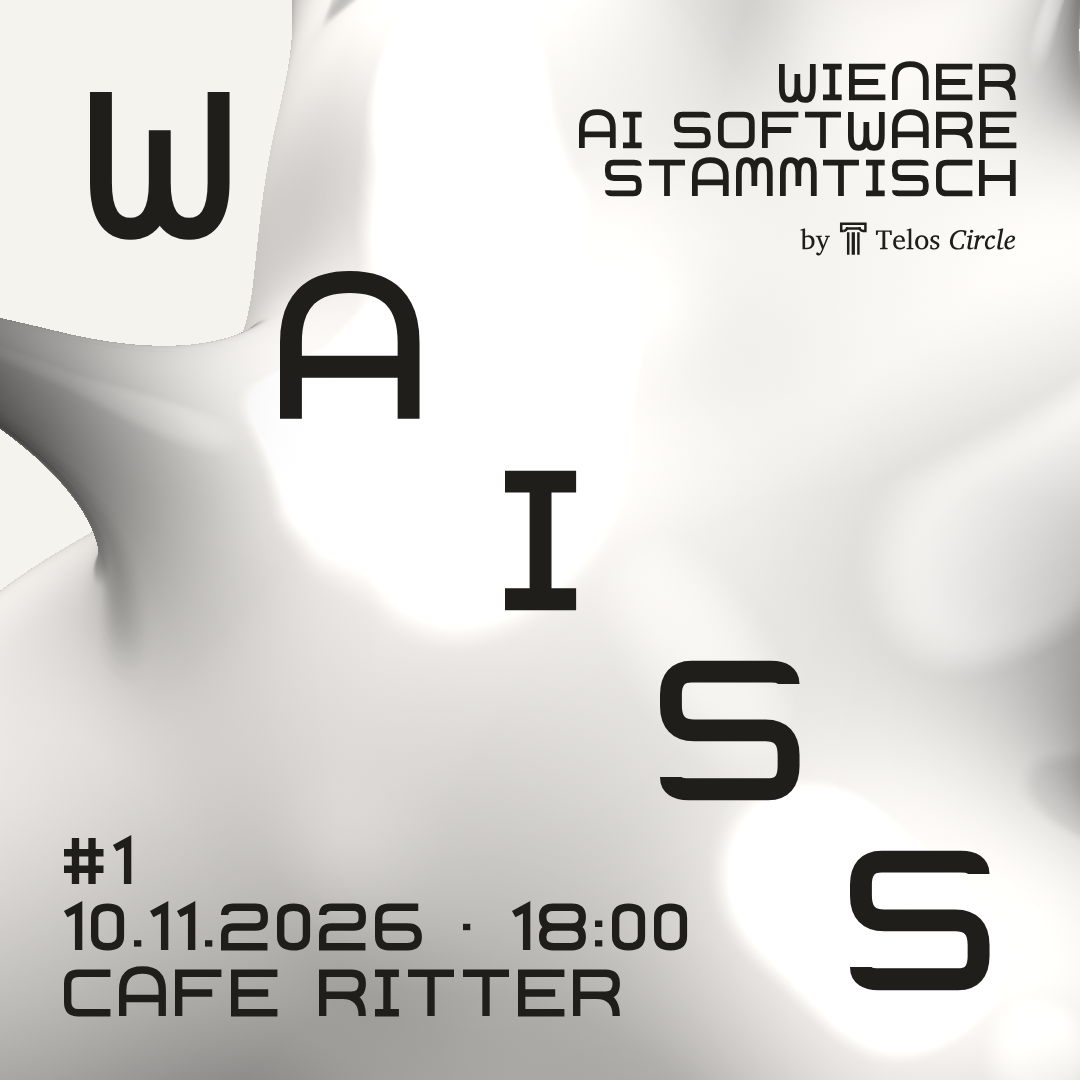
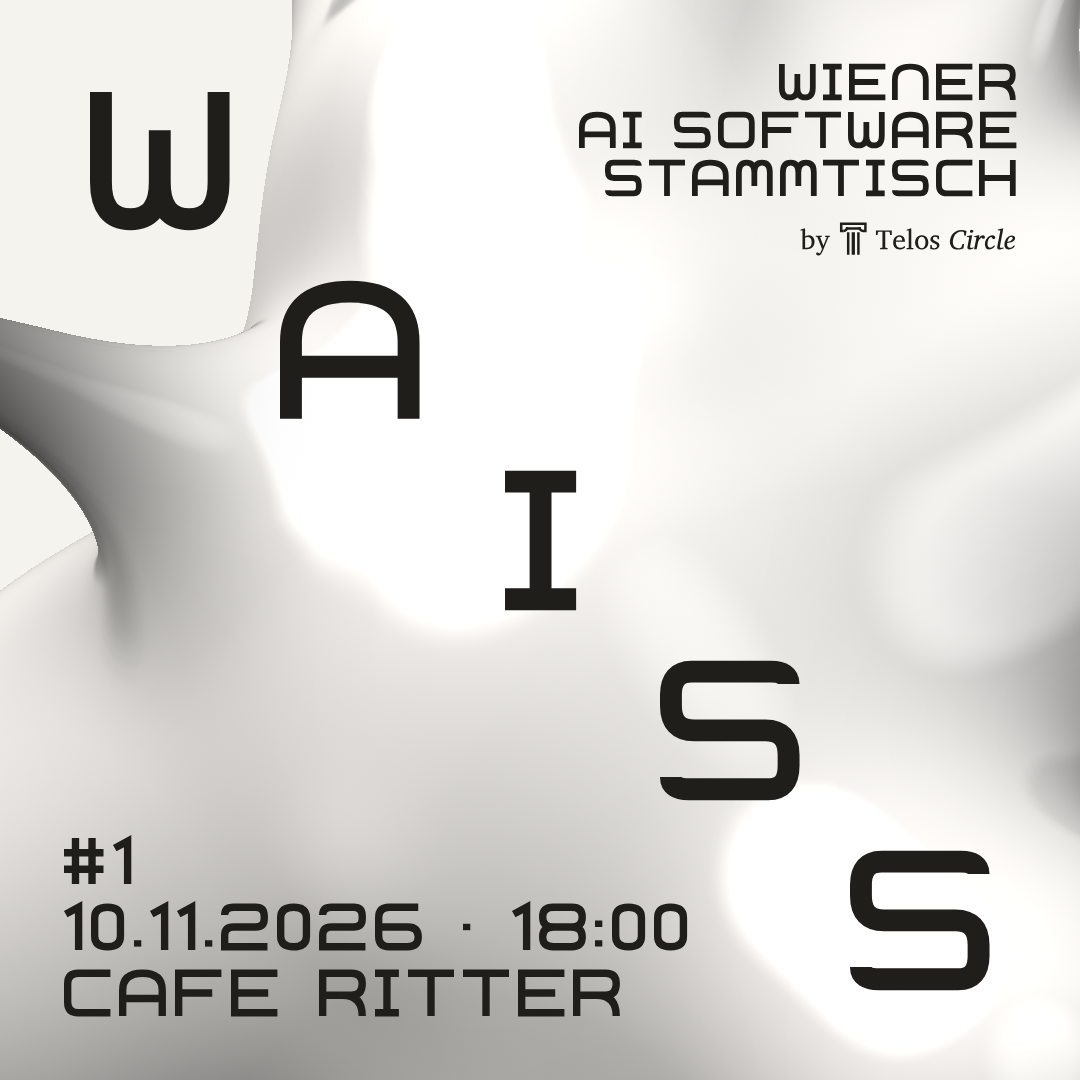
Secession alphabet: A, M, N no longer overshoot at the top, W, U at the bottom
Their arches sat on the 0/100 line, so the 16-unit stroke stuck out 8 units past every other letter.
They now sit on 7/93 like the bars of S, I, T. Re-rendered flyers, Luma cover and title slide.

diff --git a/design/canvas/Txt.dc.html b/design/canvas/Txt.dc.html
@@ -21,7 +21,7 @@ body{margin:0}
 <script type="text/x-dc" data-dc-script data-props='{"text": {"editor": "text", "default": "EDITION 1"}, "size": {"editor": "int", "default": 48, "min": 8, "max": 600}, "color": {"editor": "color", "default": "#1F1E1B"}, "$preview": {"width": 560, "height": 60}}'>
 class Component extends DCLogic {
   renderVals() {
-    const G = {"A": [-1, 101.75, "M7,100 L7,44 Q7,0 50,0 Q93,0 93,44 L93,100 M7,62 L93,62"], "B": [-1, 101.75, "M7,0 L7,100 M7,7 L70,7 Q93,7 93,28 Q93,50 70,50 L7,50 M7,50 L72,50 Q93,50 93,71 Q93,93 72,93 L7,93"], "C": [-1, 100.75, "M100,7 L30,7 Q7,7 7,30 L7,70 Q7,93 30,93 L100,93"], "D": [-1, 101.75, "M7,0 L7,100 M7,7 L50,7 Q93,7 93,50 Q93,93 50,93 L7,93"], "E": [-1, 100.75, "M100,7 L7,7 L7,93 L100,93 M7,50 L80,50"], "F": [-1, 100.75, "M100,7 L7,7 L7,100 M7,50 L80,50"], "G": [-1, 101.75, "M100,7 L30,7 Q7,7 7,30 L7,70 Q7,93 30,93 L93,93 L93,50 L55,50"], "H": [-1, 101.75, "M7,0 L7,100 M93,0 L93,100 M7,50 L93,50"], "I": [24, 51.75, "M50,0 L50,100 M24,7 L76,7 M24,93 L76,93"], "J": [-1, 101.75, "M93,0 L93,66 Q93,93 66,93 L34,93 Q7,93 7,66"], "K": [-1, 101.75, "M7,0 L7,100 M7,50 L50,50 Q93,50 93,100 M50,50 Q93,50 93,0"], "L": [-1, 100.75, "M7,0 L7,93 L100,93"], "M": [-1, 101.75, "M7,100 L7,34 Q7,0 28.5,0 Q50,0 50,34 L50,72 M50,34 Q50,0 71.5,0 Q93,0 93,34 L93,100"], "N": [-1, 101.75, "M7,100 L7,44 Q7,0 50,0 Q93,0 93,44 L93,100"], "O": [-1, 101.75, "M30,7 L70,7 Q93,7 93,30 L93,70 Q93,93 70,93 L30,93 Q7,93 7,70 L7,30 Q7,7 30,7 Z"], "P": [-1, 101.75, "M7,100 L7,7 L70,7 Q93,7 93,30 Q93,55 70,55 L7,55"], "Q": [-1, 106, "M30,7 L70,7 Q93,7 93,30 L93,70 Q93,93 70,93 L30,93 Q7,93 7,70 L7,30 Q7,7 30,7 Z M62,68 L100,100"], "R": [-1, 101.75, "M7,100 L7,7 L70,7 Q93,7 93,30 Q93,55 70,55 L7,55 M50,55 Q93,55 93,100"], "S": [-1, 101.75, "M93,16 Q93,7 80,7 L22,7 Q7,7 7,24 L7,32 Q7,50 24,50 L76,50 Q93,50 93,68 L93,76 Q93,93 78,93 L20,93 Q7,93 7,84"], "T": [0, 99.75, "M0,7 L100,7 M50,7 L50,100"], "U": [-1, 101.75, "M7,0 L7,56 Q7,100 50,100 Q93,100 93,56 L93,0"], "V": [-0.25, 100.25, "M7,0 L50,92 L93,0"], "W": [-1, 101.75, "M7,0 L7,66 Q7,100 28.5,100 Q50,100 50,66 L50,28 M50,66 Q50,100 71.5,100 Q93,100 93,66 L93,0"], "X": [1, 97.75, "M7,0 L93,100 M93,0 L7,100"], "Y": [1, 97.75, "M7,0 L50,50 L93,0 M50,50 L50,100"], "Z": [-12.25, 124.25, "M0,7 L93,7 L7,93 L100,93"], "0": [14, 71.75, "M50,7 Q78,7 78,30 L78,70 Q78,93 50,93 Q22,93 22,70 L22,30 Q22,7 50,7 Z"], "1": [18.25, 39.5, "M22,22 L50,7 L50,100"], "2": [-1, 101.75, "M7,24 Q7,7 26,7 L74,7 Q93,7 93,26 L93,32 Q93,50 74,50 L26,50 Q7,50 7,68 L7,93 L100,93"], "3": [0, 100.75, "M0,7 L74,7 Q93,7 93,26 Q93,50 70,50 L30,50 M70,50 Q93,50 93,72 Q93,93 74,93 L0,93"], "4": [-1, 100.75, "M7,0 L7,64 L100,64 M70,30 L70,100"], "5": [-1, 101.75, "M93,7 L7,7 L7,50 L74,50 Q93,50 93,70 L93,74 Q93,93 74,93 L0,93"], "6": [-1, 101.75, "M93,7 L30,7 Q7,7 7,30 L7,70 Q7,93 30,93 L70,93 Q93,93 93,72 Q93,50 70,50 L7,50"], "7": [0, 106.5, "M0,7 L93,7 L40,100"], "8": [-1, 101.75, "M30,7 L70,7 Q93,7 93,28 Q93,50 70,50 L30,50 Q7,50 7,28 Q7,7 30,7 Z M30,50 L70,50 Q93,50 93,72 Q93,93 70,93 L30,93 Q7,93 7,72 Q7,50 30,50 Z"], "9": [-1, 101.75, "M93,50 L30,50 Q7,50 7,28 Q7,7 30,7 L70,7 Q93,7 93,30 L93,70 Q93,93 70,93 L7,93"], "+": [7, 85.75, "M7,50 L93,50 M50,7 L50,93"], "#": [7, 85.75, "M32,0 L32,100 M68,0 L68,100 M7,32 L93,32 M7,68 L93,68"], ".": [7, 15.75, "M15,79 L15,93"], ":": [7, 15.75, "M15,36 L15,50 M15,79 L15,93"], ",": [2.25, 20.5, "M15,79 L15,93 L8,100"], "-": [7, 45.75, "M7,50 L53,50"], "/": [-7, 73.75, "M0,100 L60,0"], "'": [7, 15.75, "M15,0 L15,22"], "·": [7, 15.75, "M15,43 L15,57"], " ": [0, 50, ""]};
+    const G = {"A": [-1, 101.75, "M7,100 L7,44 Q7,7 50,7 Q93,7 93,44 L93,100 M7,62 L93,62"], "B": [-1, 101.75, "M7,0 L7,100 M7,7 L70,7 Q93,7 93,28 Q93,50 70,50 L7,50 M7,50 L72,50 Q93,50 93,71 Q93,93 72,93 L7,93"], "C": [-1, 100.75, "M100,7 L30,7 Q7,7 7,30 L7,70 Q7,93 30,93 L100,93"], "D": [-1, 101.75, "M7,0 L7,100 M7,7 L50,7 Q93,7 93,50 Q93,93 50,93 L7,93"], "E": [-1, 100.75, "M100,7 L7,7 L7,93 L100,93 M7,50 L80,50"], "F": [-1, 100.75, "M100,7 L7,7 L7,100 M7,50 L80,50"], "G": [-1, 101.75, "M100,7 L30,7 Q7,7 7,30 L7,70 Q7,93 30,93 L93,93 L93,50 L55,50"], "H": [-1, 101.75, "M7,0 L7,100 M93,0 L93,100 M7,50 L93,50"], "I": [24, 51.75, "M50,0 L50,100 M24,7 L76,7 M24,93 L76,93"], "J": [-1, 101.75, "M93,0 L93,66 Q93,93 66,93 L34,93 Q7,93 7,66"], "K": [-1, 101.75, "M7,0 L7,100 M7,50 L50,50 Q93,50 93,100 M50,50 Q93,50 93,0"], "L": [-1, 100.75, "M7,0 L7,93 L100,93"], "M": [-1, 101.75, "M7,100 L7,34 Q7,7 28.5,7 Q50,7 50,34 L50,72 M50,34 Q50,7 71.5,7 Q93,7 93,34 L93,100"], "N": [-1, 101.75, "M7,100 L7,44 Q7,7 50,7 Q93,7 93,44 L93,100"], "O": [-1, 101.75, "M30,7 L70,7 Q93,7 93,30 L93,70 Q93,93 70,93 L30,93 Q7,93 7,70 L7,30 Q7,7 30,7 Z"], "P": [-1, 101.75, "M7,100 L7,7 L70,7 Q93,7 93,30 Q93,55 70,55 L7,55"], "Q": [-1, 106, "M30,7 L70,7 Q93,7 93,30 L93,70 Q93,93 70,93 L30,93 Q7,93 7,70 L7,30 Q7,7 30,7 Z M62,68 L100,100"], "R": [-1, 101.75, "M7,100 L7,7 L70,7 Q93,7 93,30 Q93,55 70,55 L7,55 M50,55 Q93,55 93,100"], "S": [-1, 101.75, "M93,16 Q93,7 80,7 L22,7 Q7,7 7,24 L7,32 Q7,50 24,50 L76,50 Q93,50 93,68 L93,76 Q93,93 78,93 L20,93 Q7,93 7,84"], "T": [0, 99.75, "M0,7 L100,7 M50,7 L50,100"], "U": [-1, 101.75, "M7,0 L7,56 Q7,93 50,93 Q93,93 93,56 L93,0"], "V": [-0.25, 100.25, "M7,0 L50,92 L93,0"], "W": [-1, 101.75, "M7,0 L7,66 Q7,93 28.5,93 Q50,93 50,66 L50,28 M50,66 Q50,93 71.5,93 Q93,93 93,66 L93,0"], "X": [1, 97.75, "M7,0 L93,100 M93,0 L7,100"], "Y": [1, 97.75, "M7,0 L50,50 L93,0 M50,50 L50,100"], "Z": [-12.25, 124.25, "M0,7 L93,7 L7,93 L100,93"], "0": [14, 71.75, "M50,7 Q78,7 78,30 L78,70 Q78,93 50,93 Q22,93 22,70 L22,30 Q22,7 50,7 Z"], "1": [18.25, 39.5, "M22,22 L50,7 L50,100"], "2": [-1, 101.75, "M7,24 Q7,7 26,7 L74,7 Q93,7 93,26 L93,32 Q93,50 74,50 L26,50 Q7,50 7,68 L7,93 L100,93"], "3": [0, 100.75, "M0,7 L74,7 Q93,7 93,26 Q93,50 70,50 L30,50 M70,50 Q93,50 93,72 Q93,93 74,93 L0,93"], "4": [-1, 100.75, "M7,0 L7,64 L100,64 M70,30 L70,100"], "5": [-1, 101.75, "M93,7 L7,7 L7,50 L74,50 Q93,50 93,70 L93,74 Q93,93 74,93 L0,93"], "6": [-1, 101.75, "M93,7 L30,7 Q7,7 7,30 L7,70 Q7,93 30,93 L70,93 Q93,93 93,72 Q93,50 70,50 L7,50"], "7": [0, 106.5, "M0,7 L93,7 L40,100"], "8": [-1, 101.75, "M30,7 L70,7 Q93,7 93,28 Q93,50 70,50 L30,50 Q7,50 7,28 Q7,7 30,7 Z M30,50 L70,50 Q93,50 93,72 Q93,93 70,93 L30,93 Q7,93 7,72 Q7,50 30,50 Z"], "9": [-1, 101.75, "M93,50 L30,50 Q7,50 7,28 Q7,7 30,7 L70,7 Q93,7 93,30 L93,70 Q93,93 70,93 L7,93"], "+": [7, 85.75, "M7,50 L93,50 M50,7 L50,93"], "#": [7, 85.75, "M32,0 L32,100 M68,0 L68,100 M7,32 L93,32 M7,68 L93,68"], ".": [7, 15.75, "M15,79 L15,93"], ":": [7, 15.75, "M15,36 L15,50 M15,79 L15,93"], ",": [2.25, 20.5, "M15,79 L15,93 L8,100"], "-": [7, 45.75, "M7,50 L53,50"], "/": [-7, 73.75, "M0,100 L60,0"], "'": [7, 15.75, "M15,0 L15,22"], "·": [7, 15.75, "M15,43 L15,57"], " ": [0, 50, ""]};
     const h = Math.max(4, Number(this.props.size ?? 48));
     const raw = String(this.props.text ?? 'EDITION 1').toUpperCase().replace(/Ä/g, 'AE').replace(/Ö/g, 'OE').replace(/Ü/g, 'UE').replace(/ß/g, 'SS').normalize('NFD').replace(/[\u0300-\u036f]/g, '');
     const glyphs = [];

diff --git a/design/canvas/Main.dc.html b/design/canvas/Main.dc.html
@@ -23,7 +23,7 @@ body{margin:0}
 <dc-import name="Txt" text="WIENER AI SOFTWARE STAMMTISCH" size="48" hint-size="576px,48px"></dc-import>
 </div>
 <div style="position: absolute; left: 100px; top: 300px; display: flex; flex-direction: column; font-size: 400px; line-height: {{lh}}; font-family: {{ff}}; font-style: {{fs}}; font-weight: {{fw}}; font-variation-settings: {{fv}}; background-image: {{hb}}; -webkit-background-clip: {{hclip}}; background-clip: {{hclip}}; color: {{hcol}}; -webkit-text-stroke: {{hst}}; transform: {{sk}}; letter-spacing: {{ls}}" role="img" aria-label="WAISS">
-<span><span style="display: inline-block; transform: {{l1t}}; font-variation-settings: {{l1v}}; margin-right: 0.144em"><svg viewBox="-1 0 101.75 100" aria-hidden="true" style="display: block; width: 0.7326em; height: 0.72em; overflow: visible"><path d="M7,0 L7,66 Q7,100 28.5,100 Q50,100 50,66 L50,28 M50,66 Q50,100 71.5,100 Q93,100 93,66 L93,0" fill="none" stroke="#1F1E1B" stroke-width="16" stroke-linecap="butt" stroke-linejoin="miter"/></svg></span><span style="display: inline-block; transform: {{l2t}}; font-variation-settings: {{l2v}}; margin-right: 0.144em"><svg viewBox="-1 0 101.75 100" aria-hidden="true" style="display: block; width: 0.7326em; height: 0.72em; overflow: visible"><path d="M7,100 L7,44 Q7,0 50,0 Q93,0 93,44 L93,100 M7,62 L93,62" fill="none" stroke="#1F1E1B" stroke-width="16" stroke-linecap="butt" stroke-linejoin="miter"/></svg></span><span style="display: inline-block; transform: {{l3t}}; font-variation-settings: {{l3v}}; margin-right: 0.144em"><svg viewBox="24 0 51.75 100" aria-hidden="true" style="display: block; width: 0.3726em; height: 0.72em; overflow: visible"><path d="M50,0 L50,100 M24,7 L76,7 M24,93 L76,93" fill="none" stroke="#1F1E1B" stroke-width="16" stroke-linecap="butt" stroke-linejoin="miter"/></svg></span><span style="display: inline-block; transform: {{l4t}}; font-variation-settings: {{l4v}}; margin-right: 0.144em"><svg viewBox="-1 0 101.75 100" aria-hidden="true" style="display: block; width: 0.7326em; height: 0.72em; overflow: visible"><path d="M93,16 Q93,7 80,7 L22,7 Q7,7 7,24 L7,32 Q7,50 24,50 L76,50 Q93,50 93,68 L93,76 Q93,93 78,93 L20,93 Q7,93 7,84" fill="none" stroke="#1F1E1B" stroke-width="16" stroke-linecap="butt" stroke-linejoin="miter"/></svg></span><span style="display: inline-block; transform: {{l5t}}; font-variation-settings: {{l5v}}; margin-right: 0.144em"><svg viewBox="-1 0 101.75 100" aria-hidden="true" style="display: block; width: 0.7326em; height: 0.72em; overflow: visible"><path d="M93,16 Q93,7 80,7 L22,7 Q7,7 7,24 L7,32 Q7,50 24,50 L76,50 Q93,50 93,68 L93,76 Q93,93 78,93 L20,93 Q7,93 7,84" fill="none" stroke="#1F1E1B" stroke-width="16" stroke-linecap="butt" stroke-linejoin="miter"/></svg></span></span>
+<span><span style="display: inline-block; transform: {{l1t}}; font-variation-settings: {{l1v}}; margin-right: 0.144em"><svg viewBox="-1 0 101.75 100" aria-hidden="true" style="display: block; width: 0.7326em; height: 0.72em; overflow: visible"><path d="M7,0 L7,66 Q7,93 28.5,93 Q50,93 50,66 L50,28 M50,66 Q50,93 71.5,93 Q93,93 93,66 L93,0" fill="none" stroke="#1F1E1B" stroke-width="16" stroke-linecap="butt" stroke-linejoin="miter"/></svg></span><span style="display: inline-block; transform: {{l2t}}; font-variation-settings: {{l2v}}; margin-right: 0.144em"><svg viewBox="-1 0 101.75 100" aria-hidden="true" style="display: block; width: 0.7326em; height: 0.72em; overflow: visible"><path d="M7,100 L7,44 Q7,7 50,7 Q93,7 93,44 L93,100 M7,62 L93,62" fill="none" stroke="#1F1E1B" stroke-width="16" stroke-linecap="butt" stroke-linejoin="miter"/></svg></span><span style="display: inline-block; transform: {{l3t}}; font-variation-settings: {{l3v}}; margin-right: 0.144em"><svg viewBox="24 0 51.75 100" aria-hidden="true" style="display: block; width: 0.3726em; height: 0.72em; overflow: visible"><path d="M50,0 L50,100 M24,7 L76,7 M24,93 L76,93" fill="none" stroke="#1F1E1B" stroke-width="16" stroke-linecap="butt" stroke-linejoin="miter"/></svg></span><span style="display: inline-block; transform: {{l4t}}; font-variation-settings: {{l4v}}; margin-right: 0.144em"><svg viewBox="-1 0 101.75 100" aria-hidden="true" style="display: block; width: 0.7326em; height: 0.72em; overflow: visible"><path d="M93,16 Q93,7 80,7 L22,7 Q7,7 7,24 L7,32 Q7,50 24,50 L76,50 Q93,50 93,68 L93,76 Q93,93 78,93 L20,93 Q7,93 7,84" fill="none" stroke="#1F1E1B" stroke-width="16" stroke-linecap="butt" stroke-linejoin="miter"/></svg></span><span style="display: inline-block; transform: {{l5t}}; font-variation-settings: {{l5v}}; margin-right: 0.144em"><svg viewBox="-1 0 101.75 100" aria-hidden="true" style="display: block; width: 0.7326em; height: 0.72em; overflow: visible"><path d="M93,16 Q93,7 80,7 L22,7 Q7,7 7,24 L7,32 Q7,50 24,50 L76,50 Q93,50 93,68 L93,76 Q93,93 78,93 L20,93 Q7,93 7,84" fill="none" stroke="#1F1E1B" stroke-width="16" stroke-linecap="butt" stroke-linejoin="miter"/></svg></span></span>
 </div>
 <div style="position: absolute; left: 120px; right: 120px; bottom: 100px; display: flex; align-items: flex-end; gap: 72px">
 <dc-import name="Txt" text="{{edition}}" size="48" hint-size="576px,48px"></dc-import>

diff --git a/design/canvas/Luma.dc.html b/design/canvas/Luma.dc.html
@@ -20,8 +20,8 @@ body{margin:0}
 <dc-import name="Blob" w="1080" h="1080" variant="{{bVar}}" zoom="{{bZoom}}" shift-x="{{bX}}" shift-y="{{bY}}" rot-offset="{{bRot}}" bg="transparent" hint-size="1080px,1080px"></dc-import>
 </div>
 <div style="position: absolute; left: 90.4px; top: 65px; display: flex; flex-direction: column; font-size: 190px; line-height: {{lh}}; font-family: {{ff}}; font-style: {{fs}}; font-weight: {{fw}}; font-variation-settings: {{fv}}; background-image: {{hb}}; -webkit-background-clip: {{hclip}}; background-clip: {{hclip}}; color: {{hcol}}; -webkit-text-stroke: {{hst}}; transform: {{sk}}; letter-spacing: {{ls}}" role="img" aria-label="WAISS">
-<span style="white-space: nowrap; display: flex; align-items: center; height: 1em; margin-left: 0em"><span style="display: inline-block; transform: {{l1t}}; font-variation-settings: {{l1v}}"><svg viewBox="-1 0 101.75 100" aria-hidden="true" style="display: block; width: 0.7326em; height: 0.72em; overflow: visible"><path d="M7,0 L7,66 Q7,100 28.5,100 Q50,100 50,66 L50,28 M50,66 Q50,100 71.5,100 Q93,100 93,66 L93,0" fill="none" stroke="#1F1E1B" stroke-width="16" stroke-linecap="butt" stroke-linejoin="miter"/></svg></span></span>
-<span style="white-space: nowrap; display: flex; align-items: center; height: 1em; margin-left: 1em"><span style="display: inline-block; transform: {{l2t}}; font-variation-settings: {{l2v}}"><svg viewBox="-1 0 101.75 100" aria-hidden="true" style="display: block; width: 0.7326em; height: 0.72em; overflow: visible"><path d="M7,100 L7,44 Q7,0 50,0 Q93,0 93,44 L93,100 M7,62 L93,62" fill="none" stroke="#1F1E1B" stroke-width="16" stroke-linecap="butt" stroke-linejoin="miter"/></svg></span></span>
+<span style="white-space: nowrap; display: flex; align-items: center; height: 1em; margin-left: 0em"><span style="display: inline-block; transform: {{l1t}}; font-variation-settings: {{l1v}}"><svg viewBox="-1 0 101.75 100" aria-hidden="true" style="display: block; width: 0.7326em; height: 0.72em; overflow: visible"><path d="M7,0 L7,66 Q7,93 28.5,93 Q50,93 50,66 L50,28 M50,66 Q50,93 71.5,93 Q93,93 93,66 L93,0" fill="none" stroke="#1F1E1B" stroke-width="16" stroke-linecap="butt" stroke-linejoin="miter"/></svg></span></span>
+<span style="white-space: nowrap; display: flex; align-items: center; height: 1em; margin-left: 1em"><span style="display: inline-block; transform: {{l2t}}; font-variation-settings: {{l2v}}"><svg viewBox="-1 0 101.75 100" aria-hidden="true" style="display: block; width: 0.7326em; height: 0.72em; overflow: visible"><path d="M7,100 L7,44 Q7,7 50,7 Q93,7 93,44 L93,100 M7,62 L93,62" fill="none" stroke="#1F1E1B" stroke-width="16" stroke-linecap="butt" stroke-linejoin="miter"/></svg></span></span>
 <span style="white-space: nowrap; display: flex; align-items: center; height: 1em; margin-left: 2.18em"><span style="display: inline-block; transform: {{l3t}}; font-variation-settings: {{l3v}}"><svg viewBox="24 0 51.75 100" aria-hidden="true" style="display: block; width: 0.3726em; height: 0.72em; overflow: visible"><path d="M50,0 L50,100 M24,7 L76,7 M24,93 L76,93" fill="none" stroke="#1F1E1B" stroke-width="16" stroke-linecap="butt" stroke-linejoin="miter"/></svg></span></span>
 <span style="white-space: nowrap; display: flex; align-items: center; height: 1em; margin-left: 3em"><span style="display: inline-block; transform: {{l4t}}; font-variation-settings: {{l4v}}"><svg viewBox="-1 0 101.75 100" aria-hidden="true" style="display: block; width: 0.7326em; height: 0.72em; overflow: visible"><path d="M93,16 Q93,7 80,7 L22,7 Q7,7 7,24 L7,32 Q7,50 24,50 L76,50 Q93,50 93,68 L93,76 Q93,93 78,93 L20,93 Q7,93 7,84" fill="none" stroke="#1F1E1B" stroke-width="16" stroke-linecap="butt" stroke-linejoin="miter"/></svg></span></span>
 <span style="white-space: nowrap; display: flex; align-items: center; height: 1em; margin-left: 4em"><span style="display: inline-block; transform: {{l5t}}; font-variation-settings: {{l5v}}"><svg viewBox="-1 0 101.75 100" aria-hidden="true" style="display: block; width: 0.7326em; height: 0.72em; overflow: visible"><path d="M93,16 Q93,7 80,7 L22,7 Q7,7 7,24 L7,32 Q7,50 24,50 L76,50 Q93,50 93,68 L93,76 Q93,93 78,93 L20,93 Q7,93 7,84" fill="none" stroke="#1F1E1B" stroke-width="16" stroke-linecap="butt" stroke-linejoin="miter"/></svg></span></span>

diff --git a/design/canvas/FlyerA.dc.html b/design/canvas/FlyerA.dc.html
@@ -20,8 +20,8 @@ body{margin:0}
 <dc-import name="Blob" w="1080" h="1350" variant="1" zoom="1.55" shift-x="0.12" shift-y="-0.06" bg="transparent" hint-size="1080px,1350px"></dc-import>
 </div>
 <div style="position: absolute; left: 60px; top: 120px; display: flex; flex-direction: column; font-size: 220px; line-height: {{lh}}; font-family: {{ff}}; font-style: {{fs}}; font-weight: {{fw}}; font-variation-settings: {{fv}}; background-image: {{hb}}; -webkit-background-clip: {{hclip}}; background-clip: {{hclip}}; color: {{hcol}}; -webkit-text-stroke: {{hst}}; transform: {{sk}}; letter-spacing: {{ls}}" role="img" aria-label="WAISS">
-<span style="white-space: nowrap; margin-left: 0.0em"><span style="display: inline-block; transform: {{l1t}}; font-variation-settings: {{l1v}}"><svg viewBox="-1 0 101.75 100" aria-hidden="true" style="display: block; width: 0.7326em; height: 0.72em; overflow: visible"><path d="M7,0 L7,66 Q7,100 28.5,100 Q50,100 50,66 L50,28 M50,66 Q50,100 71.5,100 Q93,100 93,66 L93,0" fill="none" stroke="#1F1E1B" stroke-width="16" stroke-linecap="butt" stroke-linejoin="miter"/></svg></span></span>
-<span style="white-space: nowrap; margin-left: 0.79em"><span style="display: inline-block; transform: {{l2t}}; font-variation-settings: {{l2v}}"><svg viewBox="-1 0 101.75 100" aria-hidden="true" style="display: block; width: 0.7326em; height: 0.72em; overflow: visible"><path d="M7,100 L7,44 Q7,0 50,0 Q93,0 93,44 L93,100 M7,62 L93,62" fill="none" stroke="#1F1E1B" stroke-width="16" stroke-linecap="butt" stroke-linejoin="miter"/></svg></span></span>
+<span style="white-space: nowrap; margin-left: 0.0em"><span style="display: inline-block; transform: {{l1t}}; font-variation-settings: {{l1v}}"><svg viewBox="-1 0 101.75 100" aria-hidden="true" style="display: block; width: 0.7326em; height: 0.72em; overflow: visible"><path d="M7,0 L7,66 Q7,93 28.5,93 Q50,93 50,66 L50,28 M50,66 Q50,93 71.5,93 Q93,93 93,66 L93,0" fill="none" stroke="#1F1E1B" stroke-width="16" stroke-linecap="butt" stroke-linejoin="miter"/></svg></span></span>
+<span style="white-space: nowrap; margin-left: 0.79em"><span style="display: inline-block; transform: {{l2t}}; font-variation-settings: {{l2v}}"><svg viewBox="-1 0 101.75 100" aria-hidden="true" style="display: block; width: 0.7326em; height: 0.72em; overflow: visible"><path d="M7,100 L7,44 Q7,7 50,7 Q93,7 93,44 L93,100 M7,62 L93,62" fill="none" stroke="#1F1E1B" stroke-width="16" stroke-linecap="butt" stroke-linejoin="miter"/></svg></span></span>
 <span style="white-space: nowrap; margin-left: 1.76em"><span style="display: inline-block; transform: {{l3t}}; font-variation-settings: {{l3v}}"><svg viewBox="24 0 51.75 100" aria-hidden="true" style="display: block; width: 0.3726em; height: 0.72em; overflow: visible"><path d="M50,0 L50,100 M24,7 L76,7 M24,93 L76,93" fill="none" stroke="#1F1E1B" stroke-width="16" stroke-linecap="butt" stroke-linejoin="miter"/></svg></span></span>
 <span style="white-space: nowrap; margin-left: 2.37em"><span style="display: inline-block; transform: {{l4t}}; font-variation-settings: {{l4v}}"><svg viewBox="-1 0 101.75 100" aria-hidden="true" style="display: block; width: 0.7326em; height: 0.72em; overflow: visible"><path d="M93,16 Q93,7 80,7 L22,7 Q7,7 7,24 L7,32 Q7,50 24,50 L76,50 Q93,50 93,68 L93,76 Q93,93 78,93 L20,93 Q7,93 7,84" fill="none" stroke="#1F1E1B" stroke-width="16" stroke-linecap="butt" stroke-linejoin="miter"/></svg></span></span>
 <span style="white-space: nowrap; margin-left: 3.16em"><span style="display: inline-block; transform: {{l5t}}; font-variation-settings: {{l5v}}"><svg viewBox="-1 0 101.75 100" aria-hidden="true" style="display: block; width: 0.7326em; height: 0.72em; overflow: visible"><path d="M93,16 Q93,7 80,7 L22,7 Q7,7 7,24 L7,32 Q7,50 24,50 L76,50 Q93,50 93,68 L93,76 Q93,93 78,93 L20,93 Q7,93 7,84" fill="none" stroke="#1F1E1B" stroke-width="16" stroke-linecap="butt" stroke-linejoin="miter"/></svg></span></span>
